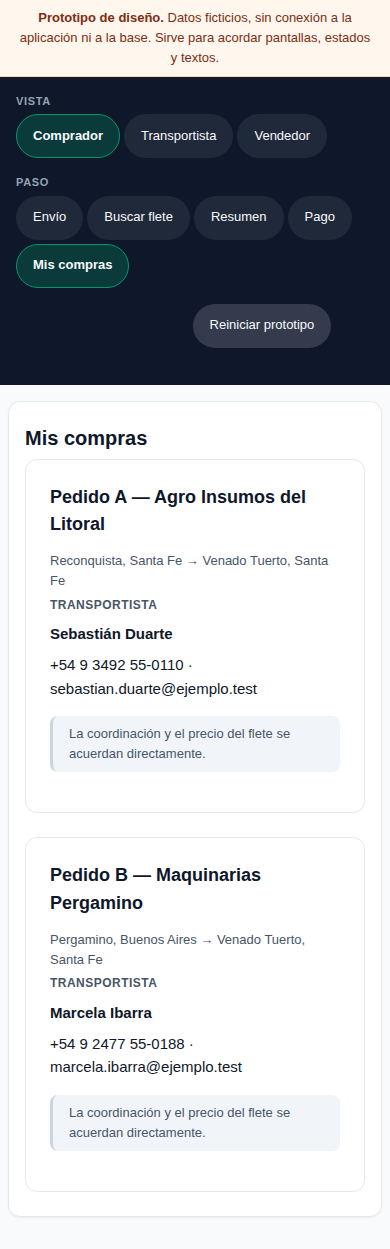
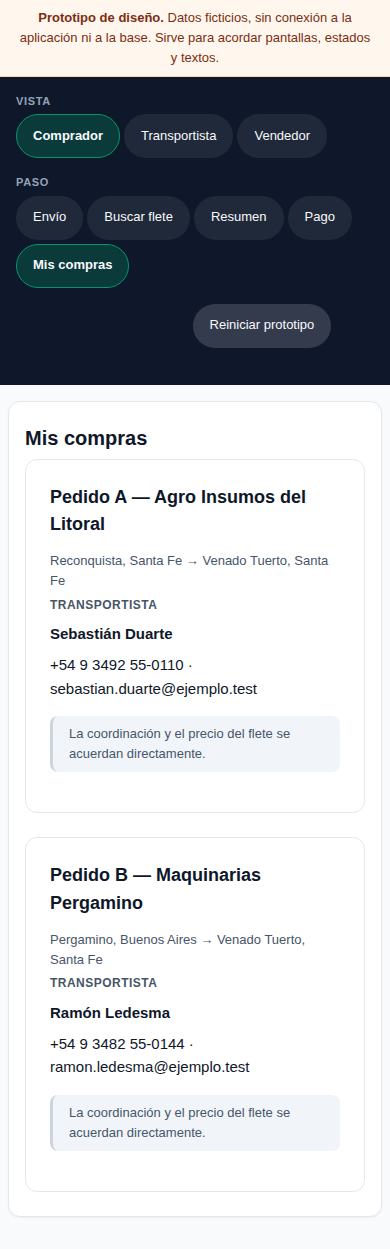
Hacer que la busqueda dependa del tramo real
La PM detecto que el destino era editable pero la busqueda no dependia de
el: candidatos, kilometros y seleccion quedaban del tramo anterior. Tenia
razon; la interfaz podia afirmar que un transportista cubria dos puntas
usando distancias de otro destino, y mostrar su contacto para un viaje ya
cambiado.

- Los transportistas declaran solo localidad base y radio. No queda ni un
  kilometro escrito a mano.
- Se agregan coordenadas ficticias por localidad y una distancia en linea
  recta calculada localmente, sin dependencias.
- Un transportista es candidato solo si su base queda dentro del radio
  respecto del origen Y del destino del momento.
- Cambiar el destino invalida siempre la seleccion: elegido pasa a null,
  desaparece el contacto y el pedido vuelve a bloquear el checkout.
- El estado vacio ahora tambien ocurre solo, no solo forzado por el control.
- Se suma un cuarto transportista para que la variacion de candidatos por
  destino sea visible: hay combinaciones con dos, con uno y con ninguno.

Verificado recorriendo los seis destinos para los pedidos A y B: 22
tarjetas en 23 combinaciones, ninguna distancia visible supera el radio.
Las cinco correcciones anteriores siguen en pie, contraste incluido: 202
textos medidos, peor 4,52:1.

node --check, npm run build y git diff --check en verde. Sin tocar src/
ni backend/.

Changed region(s): [[0.1538, 0.7806, 0.6462, 0.8743]]

diff --git a/docs/ux/logistica/prototipo.js b/docs/ux/logistica/prototipo.js
@@ -1,33 +1,60 @@
 /* Prototipo de UX de logística — TopGreen.
    Sin API, sin base y sin dependencias. Todos los datos son ficticios y están
-   acá abajo, a la vista. La búsqueda real por cercanía es de la Fase 3: acá
-   los resultados están escritos a mano para poder acordar las pantallas. */
+   acá abajo, a la vista.
+   Los candidatos y los kilómetros NO están escritos a mano: salen de aplicar
+   la regla de las dos puntas sobre coordenadas ficticias, así cambiar el
+   destino cambia de verdad lo que se ve. La búsqueda real, con PostGIS sobre
+   el padrón, es de la Fase 3. */
 
-const LOCALIDADES = [
-  'Reconquista, Santa Fe',
-  'Rafaela, Santa Fe',
-  'Venado Tuerto, Santa Fe',
-  'Rosario, Santa Fe',
-  'Pergamino, Buenos Aires',
-  'Río Cuarto, Córdoba',
-];
+/* Coordenadas ficticias, redondeadas, sólo para que el prototipo calcule
+   distancias en vez de tenerlas escritas a mano. No son un padrón: el real
+   son las 4.028 localidades de Georef que ya usa la aplicación. */
+const LOCALIDADES = {
+  'Reconquista, Santa Fe': [-29.15, -59.65],
+  'Rafaela, Santa Fe': [-31.25, -61.49],
+  'Venado Tuerto, Santa Fe': [-33.75, -61.97],
+  'Rosario, Santa Fe': [-32.95, -60.65],
+  'Pergamino, Buenos Aires': [-33.89, -60.57],
+  'Río Cuarto, Córdoba': [-33.13, -64.35],
+};
+
+/* Distancia en línea recta. Es lo único que el prototipo "calcula", y existe
+   para que cambiar el destino cambie de verdad los candidatos y los
+   kilómetros. En la aplicación esto lo va a resolver PostGIS. */
+function distanciaKm(desde, hasta) {
+  const R = 6371;
+  const [la1, lo1] = LOCALIDADES[desde].map((g) => (g * Math.PI) / 180);
+  const [la2, lo2] = LOCALIDADES[hasta].map((g) => (g * Math.PI) / 180);
+  const h = Math.sin((la2 - la1) / 2) ** 2
+    + Math.cos(la1) * Math.cos(la2) * Math.sin((lo2 - lo1) / 2) ** 2;
+  return Math.round(2 * R * Math.asin(Math.sqrt(h)));
+}
+
+/* La regla aprobada: el radio declarado tiene que cubrir las dos puntas. */
+function cubreElTramo(transportista, origen, destino) {
+  return distanciaKm(transportista.base, origen) <= transportista.radio
+    && distanciaKm(transportista.base, destino) <= transportista.radio;
+}
+
+function candidatosPara(pedido) {
+  return Object.values(TRANSPORTISTAS)
+    .filter((t) => cubreElTramo(t, pedido.origen, pedido.destino));
+}
 
 /* Los nombres son los que hoy puede devolver `full_name`: no existe un campo
    de nombre comercial y el prototipo no lo promete.
-   Las dos distancias son en línea recta desde la base del transportista, una
-   al origen y otra al destino, y las dos tienen que caer dentro del radio
-   declarado. Los números son ficticios pero coherentes entre sí. */
+   Cada transportista declara sólo su localidad base y su radio. Las
+   distancias que se muestran se calculan contra el tramo del momento; acá no
+   hay ningún kilómetro escrito a mano. */
 const TRANSPORTISTAS = {
   duarte: {
     id: 'duarte',
     nombre: 'Sebastián Duarte',
     base: 'Rafaela, Santa Fe',
-    radio: 240,
+    radio: 300,
     transporte: 'Camión con acoplado granelero',
     capacidad: 'Hasta 30 toneladas de granos',
     habilitadoEl: '12/06/2026',
-    aOrigen: 228,
-    aDestino: 196,
     telefono: '+54 9 3492 55-0110',
     correo: 'sebastian.duarte@ejemplo.test',
   },
@@ -35,12 +62,10 @@ const TRANSPORTISTAS = {
     id: 'ledesma',
     nombre: 'Ramón Ledesma',
     base: 'Reconquista, Santa Fe',
-    radio: 400,
+    radio: 600,
     transporte: 'Chasis con caja cerrada',
     capacidad: 'Hasta 12 toneladas',
     habilitadoEl: '03/07/2026',
-    aOrigen: 0,
-    aDestino: 388,
     telefono: '+54 9 3482 55-0144',
     correo: 'ramon.ledesma@ejemplo.test',
   },
@@ -52,10 +77,19 @@ const TRANSPORTISTAS = {
     transporte: 'Carretón para maquinaria',
     capacidad: 'Hasta 40 toneladas, carga sobredimensionada',
     habilitadoEl: '28/05/2026',
-    aOrigen: 0,
-    aDestino: 176,
     telefono: '+54 9 2477 55-0188',
     correo: 'marcela.ibarra@ejemplo.test',
+  },
+  ferrari: {
+    id: 'ferrari',
+    nombre: 'Luciana Ferrari',
+    base: 'Rosario, Santa Fe',
+    radio: 400,
+    transporte: 'Semirremolque con lona',
+    capacidad: 'Hasta 28 toneladas paletizadas',
+    habilitadoEl: '19/06/2026',
+    telefono: '+54 9 341 55-0177',
+    correo: 'luciana.ferrari@ejemplo.test',
   },
 };
 
@@ -71,7 +105,6 @@ function pedidosIniciales() {
       necesitaFlete: null,
       destino: DESTINO_DEL_COMPRADOR,
       elegido: null,
-      candidatos: ['duarte', 'ledesma'],
     },
     {
       id: 'B',
@@ -81,7 +114,6 @@ function pedidosIniciales() {
       necesitaFlete: null,
       destino: DESTINO_DEL_COMPRADOR,
       elegido: null,
-      candidatos: ['ibarra'],
     },
   ];
 }
@@ -127,7 +159,7 @@ function pedidoResuelto(pedido) {
 }
 
 function opcionesDeLocalidad(seleccionada) {
-  return LOCALIDADES.map(
+  return Object.keys(LOCALIDADES).map(
     (localidad) =>
       `<option value="${localidad}"${localidad === seleccionada ? ' selected' : ''}>${localidad}</option>`,
   ).join('');
@@ -247,11 +279,11 @@ function tarjetaTransportista(transportista, pedido) {
       <div class="datos">
         <div>
           <span class="etiqueta">De su base al origen</span>
-          <p>${distanciaTexto(transportista.aOrigen)} <span class="ayuda">en línea recta, hasta ${pedido.origen}</span></p>
+          <p>${distanciaTexto(distanciaKm(transportista.base, pedido.origen))} <span class="ayuda">en línea recta, hasta ${pedido.origen}</span></p>
         </div>
         <div>
           <span class="etiqueta">De su base al destino</span>
-          <p>${distanciaTexto(transportista.aDestino)} <span class="ayuda">en línea recta, hasta ${pedido.destino}</span></p>
+          <p>${distanciaTexto(distanciaKm(transportista.base, pedido.destino))} <span class="ayuda">en línea recta, hasta ${pedido.destino}</span></p>
         </div>
       </div>
 
@@ -309,13 +341,17 @@ function pintarBusqueda() {
       Coordino por mi cuenta
     </button>`;
 
-  if (estado === 'vacio') {
+  const vacio = () => {
     caja.innerHTML = `
       <div class="estado">
         <h2>Ningún transportista cubre este tramo</h2>
         <p>Probá con otro destino, o coordiná el traslado por tu cuenta.</p>
         <div class="acciones" style="justify-content:center">${salidaPropia}</div>
       </div>`;
+  };
+
+  if (estado === 'vacio') {
+    vacio();
     return;
   }
 
@@ -332,7 +368,15 @@ function pintarBusqueda() {
     return;
   }
 
-  const encontrados = pedido.candidatos.map((id) => TRANSPORTISTAS[id]);
+  const encontrados = candidatosPara(pedido);
+
+  // El vacío también ocurre solo: hay destinos que ningún radio alcanza.
+  // El control de la barra lo fuerza; la regla lo produce.
+  if (encontrados.length === 0) {
+    vacio();
+    return;
+  }
+
   caja.innerHTML = `
     <h2 class="resultados__titulo">
       ${encontrados.length} transportista${encontrados.length === 1 ? '' : 's'} para este tramo
@@ -504,7 +548,13 @@ document.addEventListener('change', (evento) => {
   }
 
   if (campo.id === 'busqueda-destino') {
-    pedidoPorId(pedidoEnBusqueda).destino = campo.value;
+    const pedido = pedidoPorId(pedidoEnBusqueda);
+    pedido.destino = campo.value;
+    // Cambiar el tramo invalida la selección anterior, siempre, aunque el
+    // mismo transportista cubra el destino nuevo. Lo que se eligió fue para
+    // otro viaje, y su contacto no puede quedar colgado de éste.
+    pedido.elegido = null;
+    pedido.necesitaFlete = true;
     pintar();
     return;
   }
